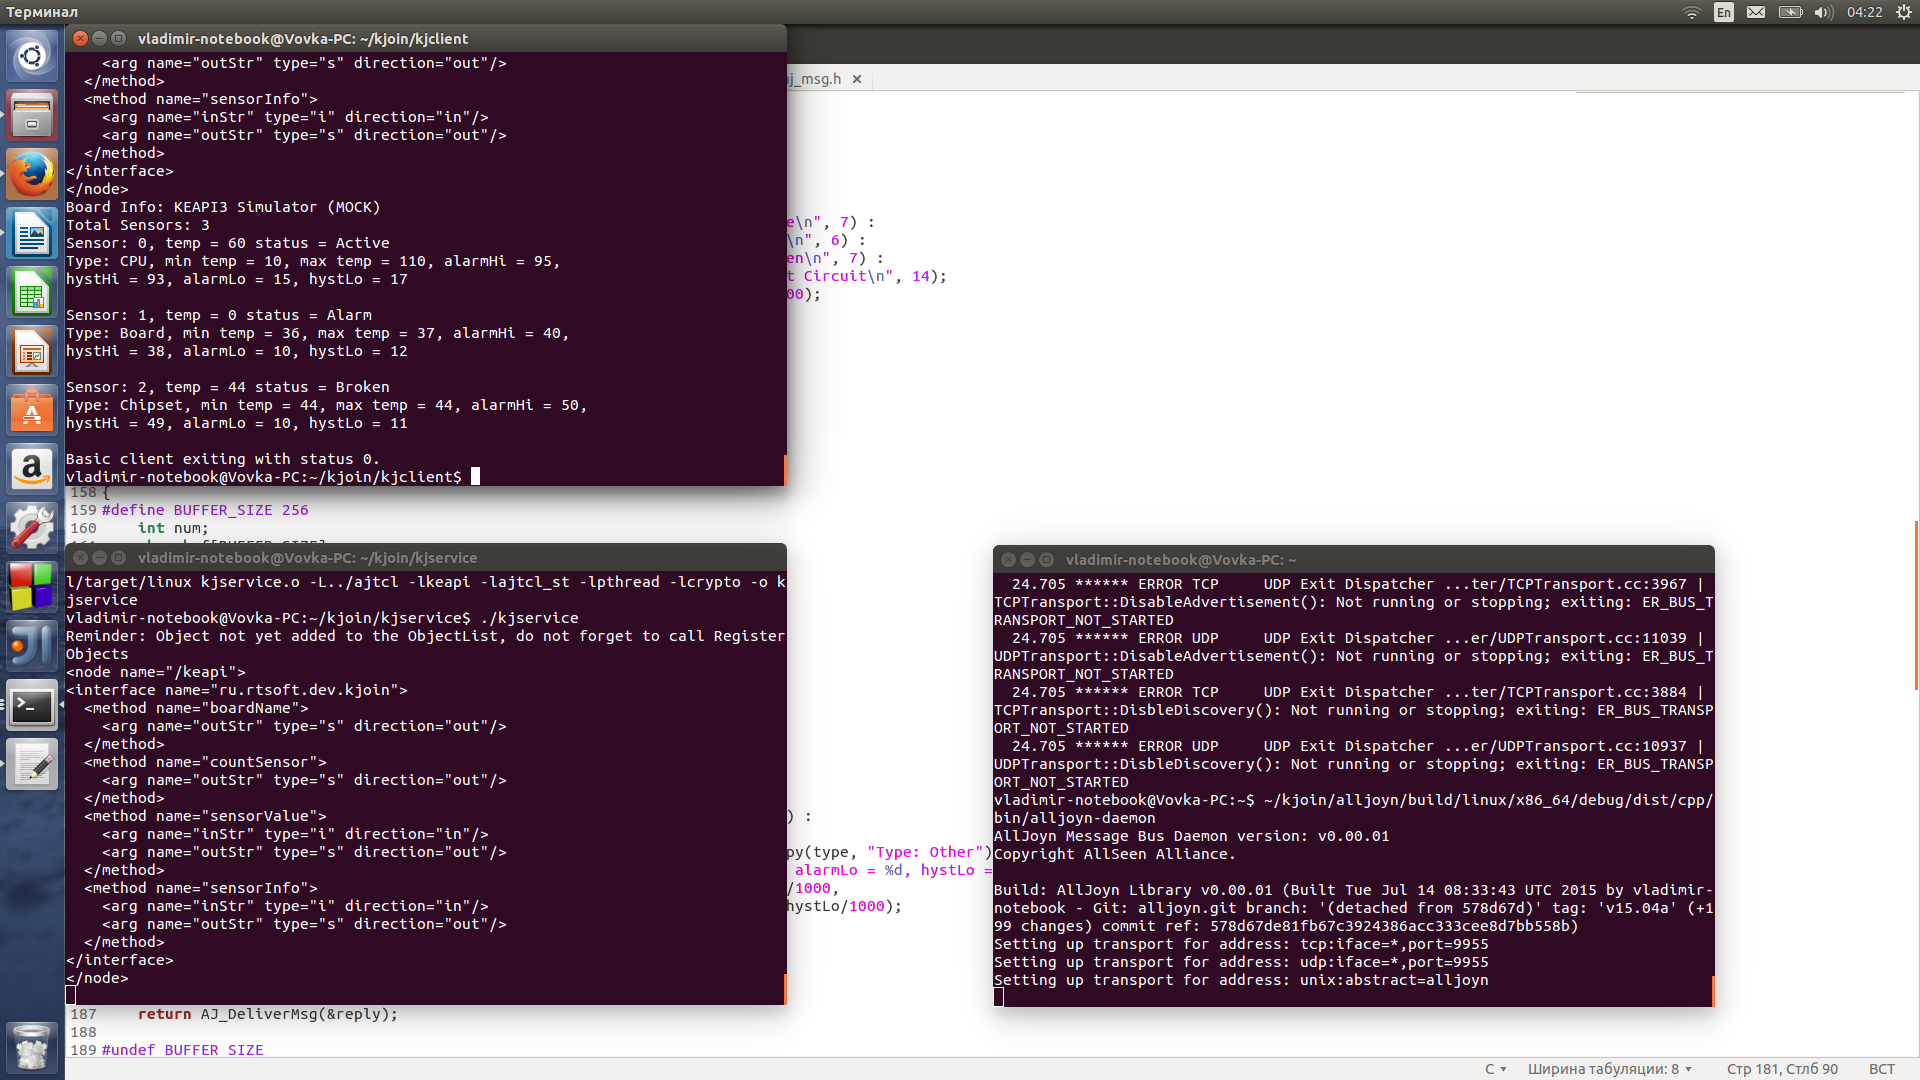
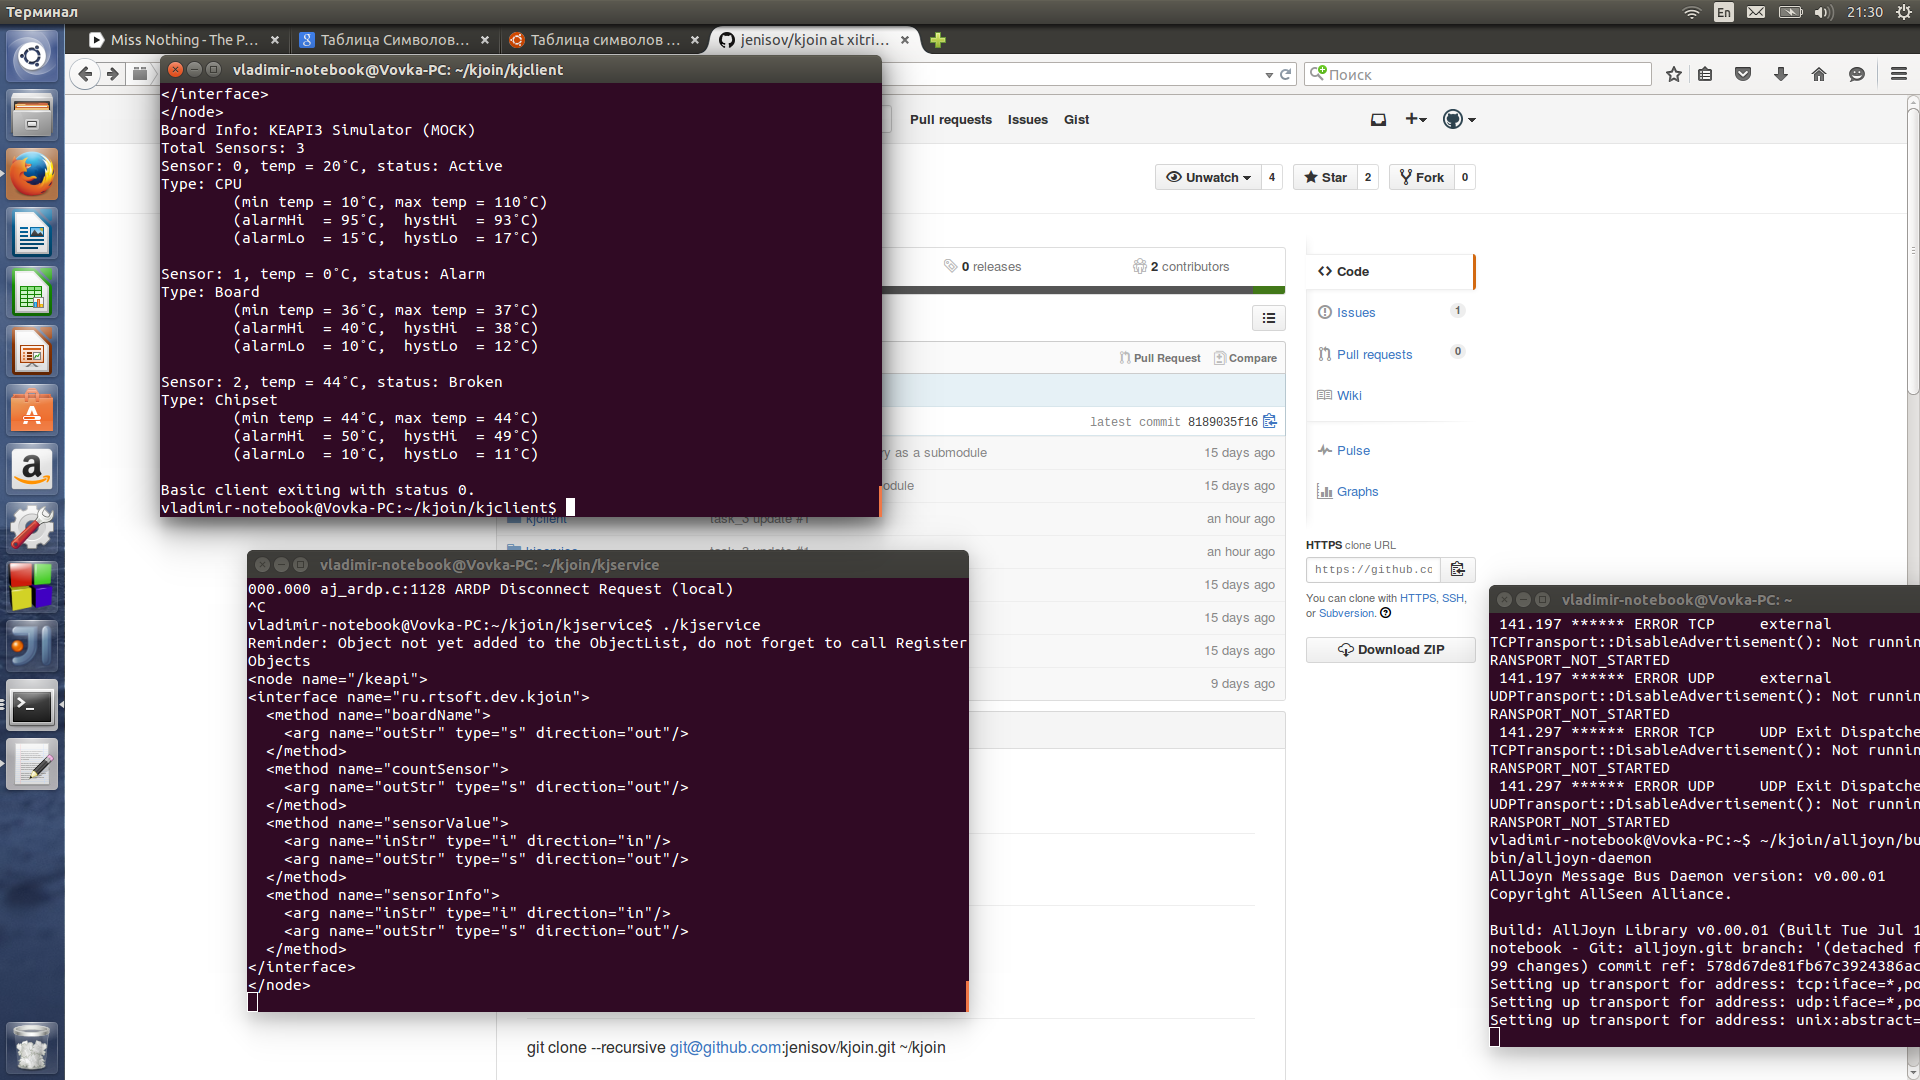
Some improvements

diff --git a/kjservice/kjservice.c b/kjservice/kjservice.c
@@ -144,7 +144,7 @@ static AJ_Status AppHandleValue(AJ_Message* msg)
     SensorValue.status == KEAPI_SENSOR_STATUS_ALARM ? strncpy(status, "Alarm\n", 6) :
     SensorValue.status == KEAPI_SENSOR_STATUS_BROKEN ? strncpy(status, "Broken\n", 7) :
     						       strncpy(status, "Short Circuit\n", 14);
-    sprintf(buf,"Sensor: %d, temp = %d status = ", num, SensorValue.value/1000);
+    sprintf(buf,"Sensor: %d, temp = %d˚C, status: ", num, SensorValue.value/1000);
     strncat(buf, status, sizeof(status));
     KEApiLibUnInitialize();
     
@@ -169,14 +169,14 @@ static AJ_Status AppHandleSensorInfo(AJ_Message* msg)
     AJ_MarshalReplyMsg(msg, &reply);
     
     KEApiGetTempSensorInfo(num, &SensorInfo);
-    SensorInfo.type == KEAPI_TEMP_CPU ? strcpy(type, "Type: CPU") :
-    SensorInfo.type == KEAPI_TEMP_BOX ? strcpy(type, "Type: Box") :
-    SensorInfo.type == KEAPI_TEMP_ENV ? strcpy(type, "Type: Env") :
-    SensorInfo.type == KEAPI_TEMP_BOARD ? strcpy(type, "Type: Board") :
-    SensorInfo.type == KEAPI_TEMP_BACKPLANE ? strcpy(type, "Type: Backplane") :
-    SensorInfo.type == KEAPI_TEMP_CHIPSET ? strcpy(type, "Type: Chipset") :
-    SensorInfo.type == KEAPI_TEMP_VIDEO ? strcpy(type, "Type: Video") : strcpy(type, "Type: Other");
-    sprintf(buf,", min temp = %d, max temp = %d, alarmHi = %d,\nhystHi = %d, alarmLo = %d, hystLo = %d\n",
+    SensorInfo.type == KEAPI_TEMP_CPU ? strcpy(type, "Type: CPU\n") :
+    SensorInfo.type == KEAPI_TEMP_BOX ? strcpy(type, "Type: Box\n") :
+    SensorInfo.type == KEAPI_TEMP_ENV ? strcpy(type, "Type: Env\n") :
+    SensorInfo.type == KEAPI_TEMP_BOARD ? strcpy(type, "Type: Board\n") :
+    SensorInfo.type == KEAPI_TEMP_BACKPLANE ? strcpy(type, "Type: Backplane\n") :
+    SensorInfo.type == KEAPI_TEMP_CHIPSET ? strcpy(type, "Type: Chipset\n") :
+    SensorInfo.type == KEAPI_TEMP_VIDEO ? strcpy(type, "Type: Video\n") : strcpy(type, "Type: Other\n");
+    sprintf(buf,"\t(min temp = %d˚C, max temp = %d˚C)\n\t(alarmHi  = %d˚C,  hystHi  = %d˚C)\n\t(alarmLo  = %d˚C,  hystLo  = %d˚C)\n",
    		SensorInfo.min/1000, SensorInfo.max/1000, SensorInfo.alarmHi/1000, 
    		SensorInfo.hystHi/1000, SensorInfo.alarmLo/1000, SensorInfo.hystLo/1000);
     strncat(type, buf, sizeof(buf));
